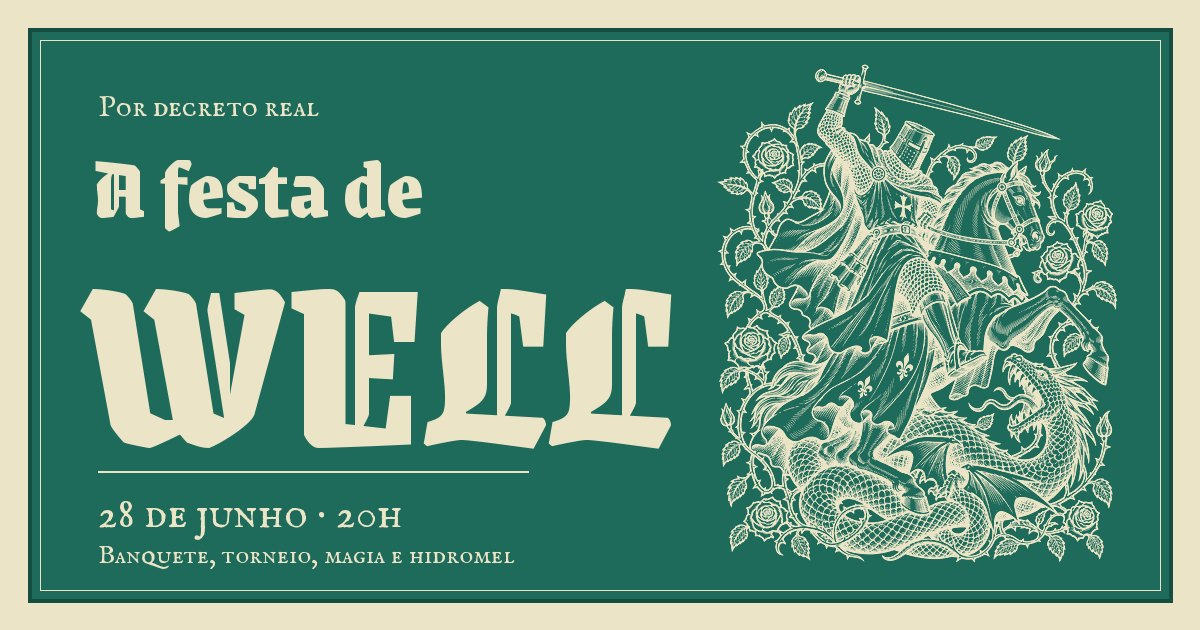
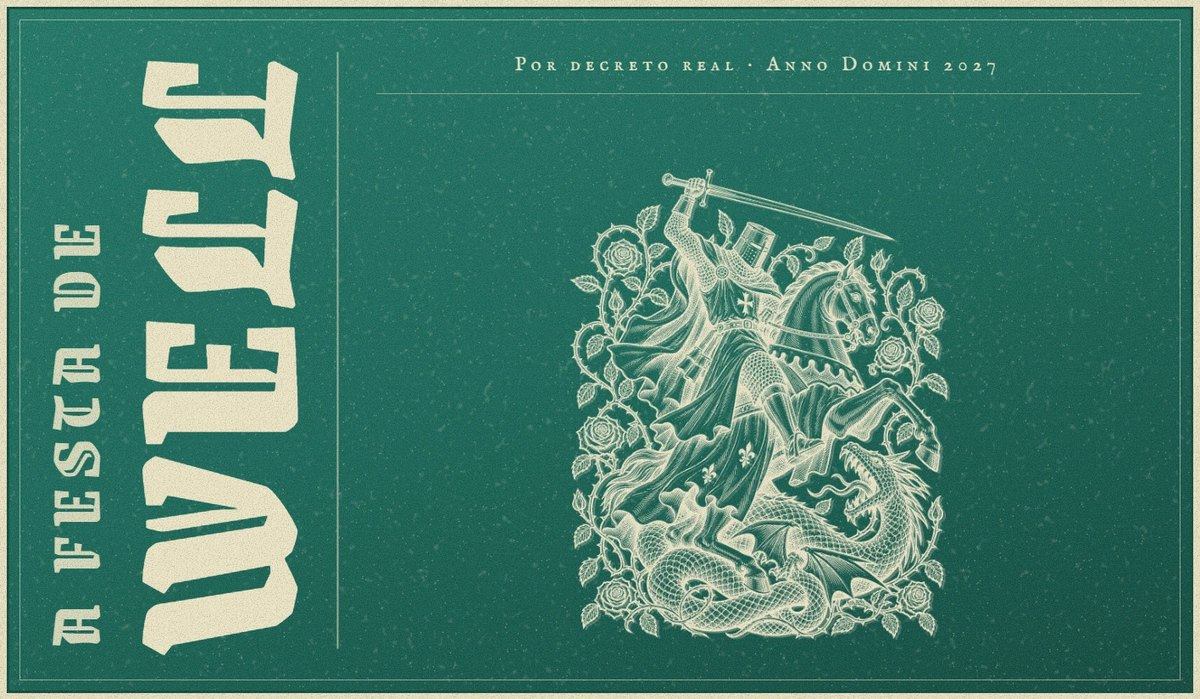
feat: troca a imagem de compartilhamento (Open Graph)

diff --git a/projeto5-aniversario-medieval/src/index.html b/projeto5-aniversario-medieval/src/index.html
@@ -20,8 +20,8 @@
     <meta property="og:description" content="Por decreto real: banquete, torneio, magia e hidromel para celebrar o aniversário do Well.">
     <meta property="og:image" content="https://festa-de-well.vercel.app/og-image.jpg">
     <meta property="og:image:width" content="1200">
-    <meta property="og:image:height" content="630">
-    <meta property="og:image:alt" content="Pôster verde e creme com o nome Well em letra gótica e a gravura de um cavaleiro enfrentando um dragão">
+    <meta property="og:image:height" content="699">
+    <meta property="og:image:alt" content="Pôster verde com A Festa de Well em letra gótica na vertical e a gravura de um cavaleiro enfrentando um dragão entre rosas">
 
     <meta name="twitter:card" content="summary_large_image">
     <meta name="twitter:title" content="A Festa de Well · 28 de junho">
